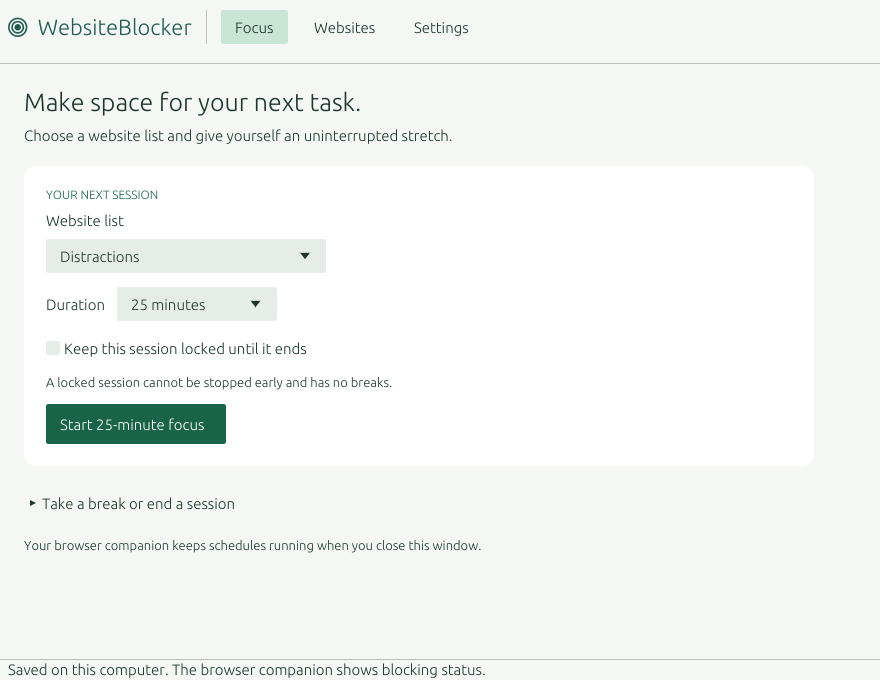
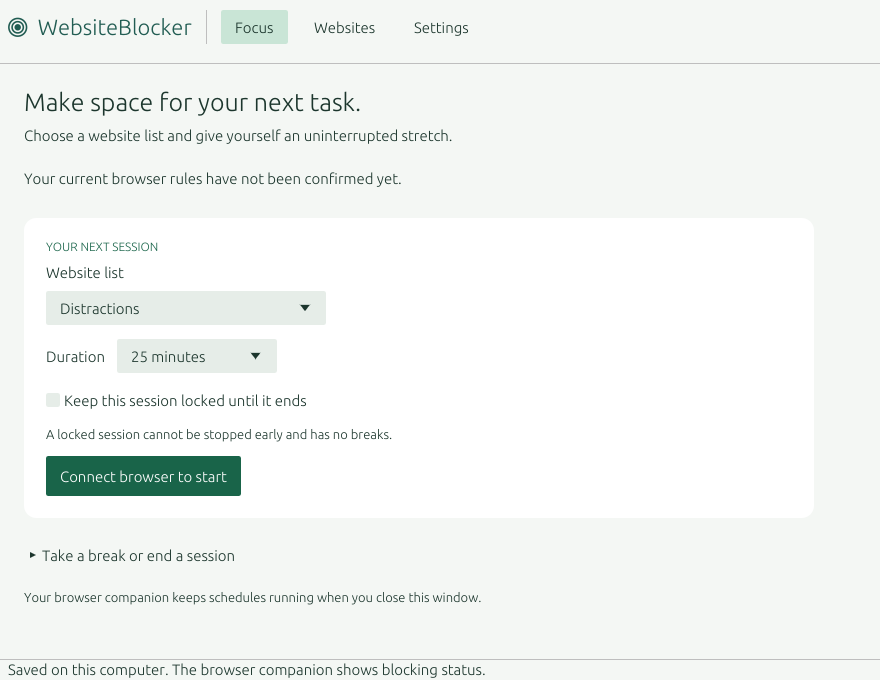
Verify in-app browser setup and document the connection workflow

diff --git a/scripts/Inspect-Package.py b/scripts/Inspect-Package.py
@@ -1,6 +1,7 @@
 """Inspect packaged files without loading an executable or changing the system."""
 from pathlib import Path
 import hashlib
+import base64
 import json
 import struct
 import zipfile
@@ -54,11 +55,15 @@ assert not any(name.lower().startswith(("opengl", "d3d", "dxgi", "vulkan")) for 
 with zipfile.ZipFile(dist / zip_name) as archive:
     assert archive.testzip() is None
     names = {name.replace("\\", "/") for name in archive.namelist()}
-    for required in ("extension/manifest.json", "extension/background.js", "extension/engine.js", "extension/blocked.html",
-                     "scripts/Register-NativeHost.ps1", "scripts/Unregister-NativeHost.ps1", "docs/BROWSER-SETUP.md", "README.md", "LICENSE"):
+    for required in ("extension/manifest.json", "extension/background.js", "extension/engine.js", "extension/blocked.html", "extension/welcome.html", "extension/welcome.js", "extension/identity.txt",
+                     "scripts/Register-NativeHost.ps1", "scripts/Unregister-NativeHost.ps1", "docs/BROWSER-SETUP.md", "README.md", "LICENSE",
+                     "docs/images/focus.png", "docs/images/rules.png", "docs/images/settings.png", "docs/images/browser.png"):
         assert required in names, f"Missing companion file: {required}"
     extension = json.loads(archive.read("extension/manifest.json"))
     assert extension["version"] == version
+    public_key = base64.b64decode(extension["key"], validate=True)
+    identity = "".join(chr(97 + nibble) for byte in hashlib.sha256(public_key).digest()[:16] for nibble in (byte >> 4, byte & 15))
+    assert archive.read("extension/identity.txt").decode().strip() == identity
 
 print(f"Verified {exe_name}: {len(data):,} bytes, Windows x64 GUI, static MSVC CRT.")
 print(f"Verified {zip_name}: required setup/extension files and ZIP integrity.")

diff --git a/scripts/Capture-Readme.py b/scripts/Capture-Readme.py
@@ -20,7 +20,7 @@ state = {
     "allowlist": [], "focus": None, "pause_until": 0, "next_break": 0, "startup_updates": False,
 }
 (data / "state.json").write_text(json.dumps(state), encoding="utf-8")
-for tab in ("focus", "rules", "settings"):
+for tab in ("focus", "rules", "settings", "browser"):
     output = images / f"{tab}.png"
     started = time.time()
     env = os.environ.copy()

diff --git a/docs/BROWSER-SETUP.md b/docs/BROWSER-SETUP.md
@@ -1,39 +1,41 @@
-# Browser setup (manual, Windows)
+# Connect Chrome or Edge from WebsiteBlocker
 
-Chrome 156.0.8078.48 and Edge 156.0.4314.50 passed isolated live native-messaging and navigation checks. The test-only registration was restored afterward. The following steps are still required to enable the extension in your normal browser profile. Chromium 120+ is the declared minimum; older versions have not been tested.
+The EXE contains the companion. Use the connection wizard; no terminal commands, extension-ID copying, manual native manifest or registry editing are required.
 
-1. Place the EXE in a stable user-writable directory and extract the companion ZIP to a stable directory. Do not keep an unpacked extension in a temporary download folder.
-2. Open your browser's extension management page (`chrome://extensions` or `edge://extensions`), enable Developer mode, choose **Load unpacked**, and select the `extension` directory. Review the requested permissions. Copy its 32-character extension ID.
-3. Open PowerShell in the extracted companion directory. Run the script with the real absolute EXE path and copied extension ID:
+1. Keep the EXE in a permanent folder. Open **Settings → Connect browser**, or the **Connect browser to start** action on Focus.
+2. Select **Chrome** or **Edge**, then **Connect Chrome/Edge**. WebsiteBlocker extracts its included companion into its own data directory and registers its native host for the current Windows user. No administrator access is requested.
+3. Select **Open Chrome/Edge extensions**, then **Copy companion folder** in the wizard. In the browser's extension page, enable **Developer mode**, choose **Load unpacked**, and paste/select that copied directory in the folder picker.
+4. The companion opens its welcome page and applies the current rules. The desktop checks for confirmation automatically while setup is open. If needed, use **Check connection** on the companion welcome page, then **Check connection** in the desktop wizard.
+5. When the wizard confirms the connection, select **Go to Focus**. Repeat in other browser profiles where blocking is wanted. A connection in one profile does not enable the companion in every profile.
 
-   ```powershell
-   .\scripts\Register-NativeHost.ps1 -ExePath 'C:\Tools\WebsiteBlocker-v0.1.0.exe' -ExtensionId 'abcdefghijklmnopabcdefghijklmnop' -Browser Chrome -WhatIf
-   # Review the paths, then run the same command without -WhatIf to register.
-   ```
+## Why one browser step remains in this preview
 
-   The shown ID is an example, not the real extension ID. The script writes `%LOCALAPPDATA%\WebsiteBlocker\native\Chrome.json` and the default value of `HKCU\Software\Google\Chrome\NativeMessagingHosts\com.websiteblocker.companion`. For Edge use `-Browser Edge`; its registry location is under `Microsoft\Edge`. Only the given extension origin is permitted. A browser hosts one configured extension ID per registration. No administrator rights or service installation are needed. If local execution policy blocks the script, inspect the script and use your organization's approved script execution process; do not disable system-wide protections.
-4. Click the extension icon and **Sync with desktop**. The browser launches the same EXE with its extension origin as an argument. This enters a short-lived native messaging path and does not create a desktop window. The desktop does not need to stay open.
-5. In the app, make a short flexible test session blocking `example.com`, with `=www.example.com` as an optional allowlist experiment. Navigate or reload to exercise the rule, then intentionally end the test. See the full manual checklist before relying on locked focus.
+The extension has not been published in Chrome Web Store or Edge Add-ons. On Windows, ordinary Chrome external installation must come from the Chrome Web Store and the user must consent in the browser. The preview therefore uses the browser's supported unpacked-extension flow. The app does not change browser preferences, install by enterprise policy, use unsafe debugging flags in normal operation or silently enable extensions. A normal store installation flow requires a real published store listing; no fake listing or unavailable Install button is provided.
 
-If the popup says the host was not found, verify the registry value, executable path, extension ID and browser choice. Restarting the browser may be necessary after registration. If the EXE moves or an unpacked extension gets a new ID, rerun registration explicitly. In-app updates replace the EXE at its existing path so the registration remains valid. The installed filename may retain the prior download version after an in-place update; Settings shows the actual installed version.
+Primary references: [Chrome extension distribution](https://developer.chrome.com/docs/extensions/how-to/distribute/install-extensions), [Edge extension distribution](https://learn.microsoft.com/en-us/microsoft-edge/extensions/developer-guide/alternate-distribution-options), [native messaging](https://developer.chrome.com/docs/extensions/develop/concepts/native-messaging), [stable development identity](https://developer.chrome.com/docs/extensions/reference/manifest/key).
 
-Check the popup, not only the desktop handshake: the latter records a native request before Chromium applies its rules. A malformed timezone is rejected by `Intl` in the extension; the popup reports it and retains the last usable policy rather than silently accepting a partial ruleset. Correct the timezone and sync again. No successful sync within eight days causes the cache to expire and rules to clear.
+## What the app prepares
 
-To disconnect deliberately:
+Companion files are kept in `%LOCALAPPDATA%\WebsiteBlocker\browser-companion\extension`. The public preview manifest key keeps its extension ID stable across extraction paths. This public key is not a credential; store publication must use the eventual store identity and migrate allowed origins deliberately.
 
-```powershell
-.\scripts\Unregister-NativeHost.ps1 -Browser Chrome -WhatIf
-# Review, then omit -WhatIf. Also disable/remove the extension in the browser.
-```
+Native manifests live under `%LOCALAPPDATA%\WebsiteBlocker\native\Chrome.json` or `Edge.json`. Only the exact per-user native-host default value is registered, under Google\Chrome or Microsoft\Edge. Other browser settings/profiles are untouched. Preparation is repeatable, preserves rules/focus settings and retains valid existing origins from this app's own manifests for migration. A foreign or invalid registration is preserved and reported rather than overwritten blindly.
 
-Unregistering alone leaves the extension's last policy active until its cache expires; disable/remove the extension to stop browser enforcement immediately. Unregistering preserves personal settings. Removing an enabled extension clears its browser rules.
+The connection label is based on a recent, version-matched applied-rule report from the browser, not merely a written registry value or native snapshot request. A connected profile can show that recent rule changes are still syncing. An application error or missing/stale report is not shown as current-rule readiness. Reports contain revision/version/status, not browsing history or visited URLs.
 
-## Firefox port notes
+## Troubleshooting
 
-The pure `engine.js` and static pages do not depend on Chromium. The native message framing is common to WebExtensions. A Firefox port still needs a reviewed manifest/background configuration, `browser` API adaptation, `allowed_extensions` native manifest and Mozilla registration location, stable extension ID, and tested declarative redirect/allow priority semantics. This version intentionally does not ship an unverified Firefox manifest.
+- **Old preview already added:** disable/remove that earlier WebsiteBlocker copy before loading the managed companion folder. Keep one enabled copy per profile. Older path-derived IDs differ from the new fixed preview identity.
+- **Files prepared but not connected:** finish the browser step, ensure the companion is enabled in the intended profile, and use its welcome-page Check connection action. Native sync normally occurs within about 30 seconds while the browser is awake.
+- **Already loaded the managed companion:** reload its card in the browser after preparing updated files. Local unpacked-extension updates still require that browser action; store-managed updates are not available yet.
+- **EXE moved:** run the current copy, open the wizard and choose **Prepare connection again** under repair. This updates the native path without editing files.
+- **Browser closed:** open it; its startup sync will renew the connection report. Cached schedules remain local to profiles with the extension enabled.
+- **Unknown timezone or rule error:** correct the schedule/list in WebsiteBlocker and sync again. The last usable cached policy continues until its expiry; the UI reports the failure.
+- **Stop browser enforcement:** disable/remove the companion in that browser profile. Removing only native registration would leave a valid cached policy until it expires, so the wizard does not present that as an immediate Stop action.
 
-Primary API references used during implementation: [Chrome native messaging](https://developer.chrome.com/docs/extensions/develop/concepts/native-messaging), [declarativeNetRequest](https://developer.chrome.com/docs/extensions/reference/api/declarativeNetRequest), [alarms](https://developer.chrome.com/docs/extensions/reference/api/alarms).
+Settings and rule files are outside the EXE directory and survive connection preparation. Private/Incognito mode requires separate browser consent. This is voluntary blocking, not a security boundary.
 
-## Opt-in live developer test
+## Developer verification
 
-`node scripts/Browser-Smoke.mjs Chrome` or `Edge` launches a disposable profile under `.test-output/`, serves harmless HTTP fixtures on loopback, temporarily points the per-user native-host registration to the test manifest, then restores its original default value. It never uses the normal browser profile or credentials. Use `WEBSITEBLOCKER_TEST_EXE` to select an absolute built EXE; the default is `dist/WebsiteBlocker-v0.1.0.exe`. The test intentionally launches a browser and changes a temporary native registration, so it is separate from Check.ps1 and is never run implicitly by packaging or CI. Chrome uses a DevTools pipe; Edge's launcher required a local DevTools port. These debugging flags apply only to disposable test profiles and do not disable the browser sandbox.
+The production setup backend is tested with a fake registry and isolated files. `examples/prepare-connection.rs` exercises the same backend headlessly for opt-in live fixtures. After building that example, `node scripts/Browser-Smoke.mjs Chrome --headless --managed` (or Edge) tests the embedded extraction, real per-user Rust registration, applied-rule status and navigation enforcement. It uses disposable profiles, backs up/restores the exact native-host value and never uses regular profiles or credentials. These opt-in live tests are separate from Check.ps1 and CI. Legacy PowerShell setup scripts remain developer/backward-compatibility tools; the consumer workflow does not require them.
+
+Firefox remains unsupported: it needs a reviewed manifest/API adaptation, Mozilla native-host registration and tested rule semantics.

diff --git a/docs/ARCHITECTURE.md b/docs/ARCHITECTURE.md
@@ -6,6 +6,7 @@
 Desktop UI -> bounded settings worker -> validated state.json (atomic replacement)
 Browser alarm / Sync -> EXE native host -> read-only policy snapshot
 Snapshot -> local extension cache -> Intl schedule evaluation -> Chromium dynamic rules
+Applied-rule report -> per-browser connection status -> in-app setup confirmation
 HTTP(S) top-level navigation -> higher-priority allow OR redirect -> local block page
 ```
 
@@ -21,7 +22,7 @@ A winit event loop uses Wait/WaitUntil and no Poll. Input, changed worker data, 
 
 The Win32 winit 0.30 loop may wait immediately after AboutToWait, before observing an exit requested from that callback. The host expires that one final wait and releases the GDI surface/window during exiting. Diagnostic and capture modes have internal limits and independent external timeouts. They are not consumer settings.
 
-`WEBSITEBLOCKER_DATA_DIR` selects an explicit absolute isolated data directory for the desktop and native host. `WEBSITEBLOCKER_CAPTURE=focus|ABSOLUTE.png` (or rules/settings) selects a real route, waits for settings readiness and three software-rendered frames, atomically writes the CPU bitmap as PNG and exits. Unknown routes, invalid output paths and failures return nonzero. Capture/diagnostic modes require an explicit data directory and suppress startup update checks. `WEBSITEBLOCKER_DIAGNOSTICS` writes opt-in aggregate counters, phase CPU samples and targeted module observations during a bounded visible/minimized/restored/hidden test. No per-frame production logging or automation server is included.
+`WEBSITEBLOCKER_DATA_DIR` selects an explicit absolute isolated data directory for the desktop and native host. `WEBSITEBLOCKER_CAPTURE=focus|ABSOLUTE.png` (or rules/settings/browser) selects a real route, waits for settings/browser-status readiness and three bounded UI passes, atomically writes the CPU bitmap as PNG and exits. Unknown routes, invalid output paths and failures return nonzero. Capture/diagnostic modes require an explicit data directory and suppress startup update checks. `WEBSITEBLOCKER_DIAGNOSTICS` writes opt-in aggregate counters, phase CPU samples and targeted module observations during a bounded visible/minimized/restored/hidden test. No per-frame production logging or automation server is included.
 
 ## Rules and schedules
 
@@ -37,9 +38,17 @@ All allow patterns have priority 100 and all redirects priority 1. Allowlists ar
 
 All runtime data is under the user's WebsiteBlocker directory. State files are bounded to 1 MiB, validated on read, and never overwritten on parse/schema failure. A separate file lock serializes reads/writes; acquisition fails promptly rather than blocking a UI worker forever. Rule saves include their base revision to reject stale editors. Writes use a same-directory temporary file, flush and atomic replacement. Empty initial settings are loaded as an inactive timer-only example list. Tests use temporary fixture directories under `.test-output/`; real `%LOCALAPPDATA%` is never touched by tests.
 
-Native messaging uses native-endian 32-bit length framing, bounded to 4 KiB input and less than 1 MiB output. Only `{ "protocol": 1, "command": "snapshot" }` is accepted, with no unknown fields. Browser-side code cannot start/stop focus or mutate desktop rules. The host sends no logs on stdout, processes one request and exits. Browser registration restricts the allowed extension origin. There is no password, hidden API, privileged service or secret stored in the extension. Any same-user software that can modify the state directory is outside the trust boundary.
+Native messaging uses native-endian 32-bit framing, bounded to 4 KiB input and less than 1 MiB output. Protocol 1 accepts the legacy snapshot command plus a strictly typed applied-status report (browser, revision, fixed extension ID, version, bounded error). Unknown fields/commands and browser-side attempts to stop focus remain rejected. Applied reports cannot modify rule/focus configuration. They are written only after the extension successfully updates DNR, or carry an explicit error. Current-rule confirmation requires a recent report with the saved revision; transport connection and pending rule synchronization are separate UI states. This is a cooperative local status mechanism, not tamper-resistant attestation.
 
-The desktop handshake file records request time/revision, not browsing activity or proof of rule application. The extension stores a policy snapshot and compact applied-status/error record. Cache lifetime is eight days from the last successful native request. Focus end times are retained precisely; disconnecting the desktop does not extend a timer. Expired caches clear DNR rules to prevent indefinite stale blocking. Browser status reports connection failures while a still-valid cache continues.
+## In-app browser setup
+
+The Settings/Focus action opens one coherent connection wizard. The EXE embeds a fixed list of companion files using include_bytes; no network download or external extraction utility is involved. An explicit Connect action writes only managed local files and the exact current-user native-host default value through Win32 registry APIs. It never runs PowerShell, changes browser preferences/policies, enables Developer mode or loads an extension silently. File writes are atomic and repeatable. Existing valid origins in app-owned manifests are retained; foreign registrations are preserved with a clear error. A manifest public key makes preview IDs stable and removes manual ID entry.
+
+A bounded worker handles preparation, status inspection and explicit browser launching; no disk/registry work is performed by the paint callback. While setup waits, it reads status about once a second for at most two minutes; stable status/errors do not publish repaint events. Otherwise inspection is every 30 seconds while visible. Hidden windows still perform no UI rendering. Diagnostic/capture fixtures ignore real keyboard/mouse input to prevent accidental connection actions, and count ignored input separately. Normal mode continues processing input; it skips raster/present when shapes, dimensions, scale and texture deltas show the scene is unchanged. Native expose/restore still blits the retained bitmap.
+
+The companion's install welcome page initiates a sync and displays connection success/failure. Chrome/Edge browser consent and unpublished-extension loading remain explicit browser steps. A future store path needs a real published listing and identity; none is invented. Production setup uses no DevTools flags; those exist only in the isolated developer smoke driver.
+
+The legacy global handshake file remains for protocol compatibility. Per-browser applied records are stored under connections/. Native requests are short-lived and have no GUI. The extension stores a snapshot and compact status, with an eight-day maximum cache lifetime. Focus end times do not extend on disconnect. Expired policies clear browser rules and report an error.
 
 ## Updates and distribution
 

diff --git a/README.md b/README.md
@@ -12,15 +12,19 @@ A local, voluntary focus tool for websites. Manage website lists, recurring sche
 - Recurring weekday schedules in named IANA timezones, with overnight ranges and daylight-saving transitions handled by the browser's `Intl` database.
 - Five-minute breaks, at most once per 30 minutes, requiring the phrase `TAKE A BREAK`. Ending a flexible session requires `END FOCUS`; scheduled blocks continue independently.
 - A clear browser block page, extension popup with applied rule status and connection errors, and per-user native messaging without a local web server.
+- **Settings → Connect browser** prepares the embedded companion and native registration. No PowerShell, JSON/registry editing or extension-ID entry is required. The wizard confirms rules were actually applied before reporting readiness.
 - Local JSON settings with validation, atomic replacement, bounded reads, writer locking and stale-edit protection. Browsing history and requested URLs are not stored.
 - Settings → Updates shows the installed version, manual **Check for updates**, a persistent startup-check toggle (on by default), and user-initiated **Download and install** with progress, SHA-256 checking and a restart helper. Updates require an official compatible asset and `checksums.txt`; unavailable releases are reported truthfully.
 
-## Try it later on a desktop
+## Connect and use
 
-1. Build/package locally using the commands below. Keep `WebsiteBlocker-v0.1.0.exe` in a stable, user-writable folder. Extract the companion ZIP into another stable folder.
-2. Follow [browser setup](docs/BROWSER-SETUP.md) to load the extension and explicitly register its native host for Chrome or Edge. This step changes one per-user registry entry and is not performed by the app or build.
-3. Open the EXE. Edit **Websites**, save, and use the extension popup to confirm a successful sync. The initial example list is timer-only and does not block anything until a session starts or a schedule is saved.
-4. Start a short flexible session on a test domain first. Navigation matching requires the extension to be enabled in that browser profile.
+1. Keep `WebsiteBlocker-v0.1.0.exe` in a permanent folder and open it. The browser companion is embedded; downloading/extracting a separate ZIP is no longer required.
+2. Choose **Connect browser** from Focus or Settings, select Chrome or Edge, then **Connect Chrome/Edge**. The app prepares the companion files and per-user native registration automatically.
+3. In the same wizard, choose **Open Chrome/Edge extensions** and **Copy companion folder**. For this unpublished local preview, turn on **Developer mode** in that browser page, select **Load unpacked**, and paste/select the copied folder. No command, extension ID or configuration-file edit is needed.
+4. The companion opens a welcome page and connects automatically. WebsiteBlocker confirms when current rules are applied. Repeat for another browser/profile if needed.
+5. Edit **Websites**, save, then start a short flexible focus session. Before a browser is connected, the main action takes you to setup instead of starting an ineffective session.
+
+**Preview distribution limit:** the companion is not published in Chrome Web Store or Edge Add-ons yet. The browser installation/consent step cannot be silently completed by the desktop app; Chrome on Windows requires store distribution for ordinary external installation. The app does not change browser preferences, use policies, enable Developer mode or install an extension without the browser step. See [browser setup and troubleshooting](docs/BROWSER-SETUP.md).
 
 Example pattern list:
 
@@ -56,7 +60,7 @@ dist/WebsiteBlocker-Companion-v0.1.0.zip
 dist/checksums.txt
 ```
 
-The single executable contains both the desktop app and its native messaging host. Browser extension files and the explicit registration script are a necessary exception to an EXE-only distribution. Source is also portable in parts, but only Windows x64 packaging is currently provided. Firefox is a future port, not a supported browser in this release.
+The single executable contains the desktop app, native host and companion source. The wizard extracts the extension to its managed local-data folder; Chromium still loads it separately. The companion ZIP is optional for legacy/developer distribution. Only Windows x64 packaging is provided. Firefox is a future port, not supported in this release.
 
 ## Limits and privacy
 
@@ -74,13 +78,15 @@ Real client-area captures from the application's CPU/GDI renderer, using disposa
 
 ![Website list editor with schedules and allowed-site sections](docs/images/rules.png)
 
-![Settings with startup updates and browser companion setup](docs/images/settings.png)
+![Settings with the browser connection action and startup update preference](docs/images/settings.png)
+
+![In-app Chrome and Edge connection wizard](docs/images/browser.png)
 
 For a bounded developer capture after applying the rendering gate:
 
 ```powershell
 python scripts/Check-Rendering.py           # 16.5-second isolated diagnostic, then exits
-python scripts/Capture-Readme.py            # three real renderer captures, each exits
+python scripts/Capture-Readme.py            # four real renderer captures, each exits
 ```
 
 These are explicit GUI diagnostic commands, separate from the noninteractive build checks. The diagnostic reports actual layout/raster/present counts and CPU time. It does not certify OS input, accessibility traversal or subjective smoothness.

diff --git a/docs/VERIFICATION.md b/docs/VERIFICATION.md
@@ -2,7 +2,22 @@
 
 Date: 2026-10-31 (Europe/Minsk). All work used this repository, isolated artificial settings and at most two Cargo jobs. Nothing was published; no remote Git operations occurred. Normal browser profiles, user data, hosts/DNS/firewall settings and drivers were not changed.
 
-## Current build and automated checks
+## Connection-wizard follow-up
+
+The current preview includes Settings/Focus → Connect browser. The EXE embeds the companion, extracts it into a managed directory and registers the native host through Rust/Win32 APIs after an explicit user action. Users do not need PowerShell, an extension ID, or JSON/registry editing. An unpublished Windows Chrome extension still needs Developer mode/Load unpacked in the browser; the wizard opens that page, copies the folder path and verifies applied rules. No store listing or silent installation is claimed.
+
+- Current noninteractive checks passed: formatting, all-target Clippy with `-D warnings`, **16 Rust tests** and **7 Node tests**. Setup tests cover fixed-key identity, exact embedded files, idempotent per-browser preparation, preservation of rules and foreign registrations, failure handling and fresh/current applied-rule reports.
+- **Chrome 156.0.8078.48 and Edge 156.0.4314.50 each passed 15 headless live checks** using the actual distributable EXE and managed embedded companion. The additional check calls the same Rust registration/preparation backend as the GUI, then calls its inspection path to confirm readiness after real DNR application. Per-user native values were backed up/restored and normal profiles were not used. No computer-use/CUA or injected OS input was used.
+- Four real CPU-renderer client-area PNGs (880 × 680) were recaptured and inspected: Focus, Websites, Settings and the connection wizard. Each capture exited; README links the actual files. Native file-picker/browser-consent interactions remain a user/browser step and were not driven through desktop automation.
+- The latest packaged EXE is **7,432,704 bytes**. Its native protocol and embedded extraction were exercised in the browser tests; later changes only affected the GUI/presenter and diagnostics.
+
+Final rendering diagnostic: PID 44088, actual distributable EXE, CPU software renderer → Win32 GDI, 20 logical cores. The running module check found gdi32.dll and none of the selected OpenGL/D3D/DXGI/Vulkan modules. The 5-second visible-idle, 2-second minimized, 3-second restored-idle and 2-second hidden intervals each had **0 new layout/raster/present and no measurable process CPU-time increase**. There were no cached OS exposure blits or ignored external input events within these final intervals. Restore explicitly presented the retained bitmap. The process exited normally.
+
+An intermediate diagnostic had 857 layouts/rasters/presents during a five-second sample. A bounded trace showed incoming cursor events separated by frames with no requested repaint; that sample was not clean idle. Normal rendering now skips raster/present when scene/scale/size/textures are unchanged while still processing input, and retains native expose/restore blits. Diagnostic/capture mode ignores real user input to protect disposable fixtures and counts it separately; the final intervals had zero such events. The diagnostic frame bound prevents continuing an unexpected redraw storm. These checks do not certify normal pointer/scroll latency, accessibility, high DPI or the user's subjective smoothness.
+
+The remaining manual/release checks below still apply. The older baseline is retained for history and does not describe the latest connection workflow.
+
+## Previous rendering baseline (historical)
 
 | Check | Result |
 | --- | --- |

diff --git a/docs/RELEASE-NOTES-v0.1.0.md b/docs/RELEASE-NOTES-v0.1.0.md
@@ -12,6 +12,12 @@ First implementation of a local website focus manager with a Chromium companion.
 - Background startup update checks with an opt-out, manual checks, verified download progress and a portable replacement/restart helper for future compatible GitHub releases.
 - Offline Rust/JavaScript fixture tests, Windows checks and local packaging scripts.
 
+## Browser connection
+
+- Added Settings → Connect browser with Chrome/Edge selection, automatic embedded-companion extraction and per-user native registration. No consumer PowerShell or manual extension-ID/configuration entry is required.
+- Added stable preview identity, welcome-page sync and verification of actually applied browser rules. Focus setup routes unconnected users to the wizard.
+- Verified the same setup backend and managed embedded extension in headless Chrome/Edge fixtures. The unpublished preview still requires the browser's Developer mode/Load unpacked step; a store listing is not published.
+
 ## Improved
 
 - Replaced the desktop OpenGL renderer with CPU rasterization and Win32 GDI, and stopped periodic rendering of unchanged or hidden windows. Bounded diagnostics check actual frame counters and process CPU.
@@ -21,7 +27,7 @@ First implementation of a local website focus manager with a Chromium companion.
 
 ## Downloads and requirements
 
-Planned Windows x64 standalone asset: `WebsiteBlocker-v0.1.0.exe`. Also provide `WebsiteBlocker-Companion-v0.1.0.zip` and `checksums.txt`. The EXE and unpacked extension require explicit manual connection setup. Builds are unsigned. No installer, extension store listing or release is published yet.
+Planned Windows x64 standalone asset: `WebsiteBlocker-v0.1.0.exe`. Also provide `WebsiteBlocker-Companion-v0.1.0.zip` and `checksums.txt`. The EXE includes the companion and its connection wizard; the preview browser installation/consent step remains explicit. Builds are unsigned. No installer, extension store listing or release is published yet.
 
 ## Known limitations
 

diff --git a/AGENTS.md b/AGENTS.md
@@ -4,7 +4,7 @@
 
 Work only in E:/work/github/website-blocker. WebsiteBlocker is a Windows-first website focus manager with a Chromium companion; see TASK.md for the original specification. Preserve existing settings and normal browser profiles. Other projects under E:/work/github are independent: do not edit them, parent configuration, or shared build output. Do not create additional chats or subagents.
 
-The user authorized GUI/extension verification and real screenshots, then reported severe lag and asked to stop computer use. The current phase is source repair and design review without computer-use/CUA or injected OS input. Earlier Chrome/Edge tests used disposable profiles and restored temporary native registrations. No publishing or remote Git operations are authorized.
+The user authorized GUI/extension verification and real screenshots, then reported severe lag and asked to stop computer use. The current phase is source repair and design review without computer-use/CUA or injected OS input. Earlier Chrome/Edge tests used disposable profiles and restored temporary native registrations. No publishing or remote Git operations are authorized. The connection-wizard task additionally authorizes embedded companion preparation and per-user native registration behind explicit GUI actions; normal browser preferences/profiles must not be edited. Use isolated headless browser fixtures for live backend checks and restore temporary registrations.
 
 ## Required skills and launch gate
 
